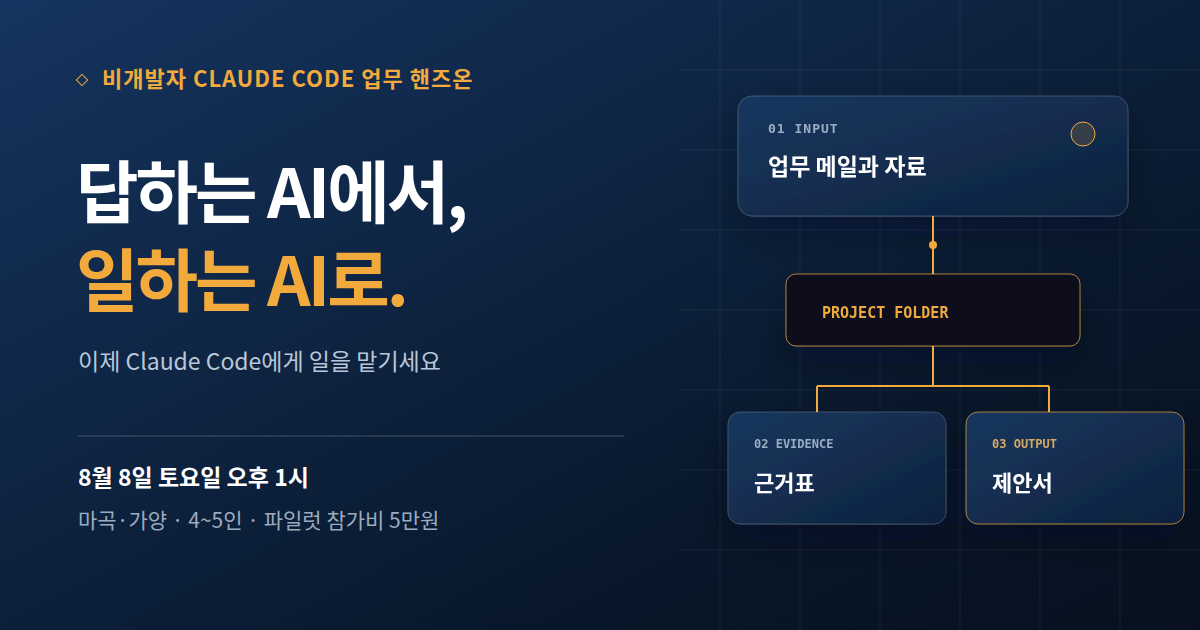
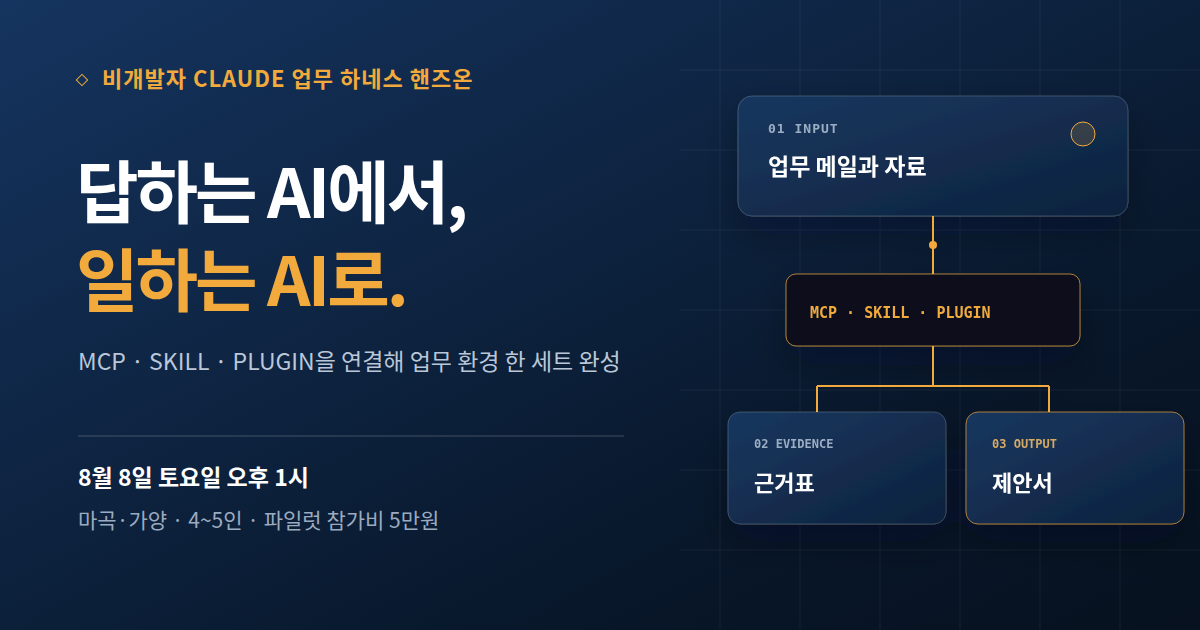
feat: present Claude work harness curriculum

Changed region(s): [[0.0617, 0.5429, 0.5242, 0.6032], [0.2467, 0.0905, 0.3392, 0.1508], [0.6783, 0.4825, 0.8325, 0.5127]]

diff --git a/index.html b/index.html
@@ -5,12 +5,12 @@
 <script>document.documentElement.className="js";</script>
 <meta name="viewport" content="width=device-width, initial-scale=1.0, viewport-fit=cover">
 <title>답하는 AI에서, 일하는 AI로 — 비개발자 Claude Code 핸즈온</title>
-<meta name="description" content="이제 Claude Code에게 일을 맡기세요. 코딩 경험 0부터 메일 분석·근거표·제안서·수정본까지 하나의 업무 흐름을 4시간 동안 직접 완주하는 비개발자 오프라인 실습입니다.">
+<meta name="description" content="이제 Claude에게 일을 맡기세요. 코딩 경험 0부터 작업 폴더·권한·MCP·Skill·Plugin을 연결해 내 업무 하네스 한 세트를 완성하는 비개발자 4시간 오프라인 실습입니다.">
 <meta name="robots" content="noindex,nofollow">
 <meta property="og:type" content="website">
 <meta property="og:locale" content="ko_KR">
 <meta property="og:title" content="답하는 AI에서, 일하는 AI로">
-<meta property="og:description" content="이제 Claude Code에게 일을 맡기세요. 코딩 경험 0부터 결과 파일까지 직접 완주하는 비개발자 4시간 오프라인 실습.">
+<meta property="og:description" content="작업 폴더·권한·MCP·Skill·Plugin을 연결해 Claude가 일할 환경 한 세트를 완성하는 비개발자 4시간 오프라인 실습.">
 <meta property="og:url" content="https://restful3.github.io/claude-hands-on/">
 <meta property="og:image" content="https://restful3.github.io/claude-hands-on/og.png">
 <meta property="og:image:width" content="1200">
@@ -155,7 +155,7 @@
 
   /* ===== PIPELINE (signature) ===== */
   .pipe-wrap{margin-top:20px;}
-  .pipe{display:grid; grid-template-columns:repeat(5,1fr); gap:0; position:relative;}
+  .pipe{display:grid; grid-template-columns:repeat(6,1fr); gap:0; position:relative;}
   .pipe::before{display:none;}
   .step{position:relative; z-index:1; text-align:center; padding:0 8px;}
   .step .node{width:68px; height:68px; margin:0 auto 14px; border-radius:20px; display:grid; place-items:center;
@@ -302,7 +302,7 @@
     .btn:hover,.cmp-card:hover{transform:none;}
   }
 </style>
-<link rel="stylesheet" href="styles-refined.css?v=20260726-4">
+<link rel="stylesheet" href="styles-refined.css?v=20260726-5">
 </head>
 <body>
 
@@ -316,9 +316,9 @@
 <header class="hero"><div class="wrap">
   <div class="hero-grid">
     <div class="hero-copy">
-      <span class="eyebrow">코딩 경험 0부터 · 비개발자 Claude Code 오프라인 실습</span>
+      <span class="eyebrow">코딩 경험 0부터 · Claude 업무 하네스 오프라인 실습</span>
       <h1><span class="line">답하는 AI에서,</span><br><em class="line">일하는 AI로.</em></h1>
-      <p class="sub">이제 Claude Code에게 일을 맡기세요. 조언을 읽고 복사하는 데서 끝나지 않고, 내 폴더의 자료를 바탕으로 <b>메일 분석 → 근거표 → 제안서 → 수정본</b>까지 이어서 처리하도록 직접 지시합니다.</p>
+      <p class="sub">이제 Claude에게 일을 맡기세요. 코딩 경험이 없어도 <b>작업 폴더·권한·MCP·Skill·Plugin</b>을 한 층씩 연결하고, 4시간 뒤 새 업무에 다시 쓰는 <b>업무 하네스 한 세트</b>를 완성합니다.</p>
       <ul class="hero-facts" aria-label="일정과 참가 조건">
         <li><b>8/8 토요일</b><span>오후 1시 시작</span></li>
         <li><b>마곡·가양</b><span>오프라인</span></li>
@@ -334,7 +334,7 @@
     </div>
 
     <div class="hero-visual">
-      <img src="workflow.svg" width="640" height="520" alt="업무 메일과 자료를 프로젝트 폴더에서 처리해 근거표와 제안서로 완성하는 흐름">
+      <img src="workflow.svg" width="640" height="520" alt="업무 입력이 Claude, MCP, Skill, Plugin으로 구성된 업무 하네스를 거쳐 근거표와 제안서로 이어지는 흐름">
     </div>
   </div>
 </div></header>
@@ -360,8 +360,8 @@
     <article class="fit-card fit-card--yes reveal">
       <h3>이런 분께 맞습니다</h3>
       <ul>
-        <li>AI 답변을 실제 보고서·제안서 같은 문서로 이어가고 싶은 비개발자</li>
-        <li>하나의 예제 업무를 직접 끝까지 해보며 일 맡기는 흐름을 익힐 분</li>
+        <li>Claude App·Code·MCP·Skill·Plugin의 차이를 직접 써보며 이해하고 싶은 비개발자</li>
+        <li>한 번의 프롬프트보다 다시 쓰는 업무 환경을 직접 만들어보고 싶은 분</li>
         <li>노트북을 지참하고 사전 환경 체크에 참여할 수 있는 분</li>
       </ul>
     </article>
@@ -379,17 +379,18 @@
 <!-- PIPELINE -->
 <section class="sec"><div class="wrap">
   <div class="sec-head reveal">
-    <span class="eyebrow">4시간 완주 흐름</span>
-    <h2>흩어진 업무 재료가<br>하나의 제안서로 이어집니다</h2>
-    <p>따로 노는 5단계를 <b>한 흐름으로</b> — 그 자리에서 손으로 끝냅니다.</p>
+    <span class="eyebrow">업무 하네스의 여섯 층</span>
+    <h2>Claude가 일하는 환경을<br>여섯 층으로 조립합니다</h2>
+    <p>앱을 켜는 데서 끝나지 않고, <b>맥락·통제·도구·절차·패키지</b>를 한 흐름으로 연결합니다.</p>
   </div>
   <div class="pipe-wrap reveal">
     <div class="pipe">
-      <div class="step"><span class="n">STEP 1</span><div class="node">01</div><h4>메일 받기</h4><p>박팀장 지시를 작업으로 분해</p></div>
-      <div class="step"><span class="n">STEP 2</span><div class="node">02</div><h4>리서치</h4><p>공개 자료로 근거 수집</p></div>
-      <div class="step"><span class="n">STEP 3</span><div class="node">03</div><h4>근거표</h4><p>확정·추정 나눠 정리</p></div>
-      <div class="step"><span class="n">STEP 4</span><div class="node">04</div><h4>제안서 초안</h4><p>회사 양식으로 완성</p></div>
-      <div class="step"><span class="n">완주</span><div class="node">05</div><h4>피드백 반영</h4><p>수정 루프까지 한 바퀴</p></div>
+      <div class="step"><span class="n">SURFACE</span><div class="node">01</div><h4>Claude App·Code</h4><p>업무에 맞는 작업 화면</p></div>
+      <div class="step"><span class="n">CONTEXT</span><div class="node">02</div><h4>CLAUDE.md</h4><p>폴더에 업무 기준 저장</p></div>
+      <div class="step"><span class="n">CONTROL</span><div class="node">03</div><h4>권한·diff</h4><p>변경 범위 직접 통제</p></div>
+      <div class="step"><span class="n">TOOLS</span><div class="node">04</div><h4>MCP</h4><p>외부 자료 읽기 연결</p></div>
+      <div class="step"><span class="n">PROCEDURE</span><div class="node">05</div><h4>Skill</h4><p>반복 절차 파일로 저장</p></div>
+      <div class="step"><span class="n">PACKAGE</span><div class="node">06</div><h4>Plugin</h4><p>기능을 한 세트로 묶기</p></div>
     </div>
   </div>
 </div></section>
@@ -402,35 +403,35 @@
   </div>
   <div class="cmp">
     <div class="cmp-card reveal">
-      <div class="tag">혼자 보는 VOD</div>
-      <div class="old"><span class="x">✕</span><span>영상 수십 시간을 혼자 보고 끝</span></div>
-      <div class="new"><span class="v">✓</span><span>우리는 <b>그 자리에서 직접 완성</b></span></div>
+      <div class="tag">기능을 보는 VOD</div>
+      <div class="old"><span class="x">✕</span><span>화면과 메뉴를 보고 이해한 느낌으로 끝</span></div>
+      <div class="new"><span class="v">✓</span><span>직접 설정하고 <b>실제 파일 변경까지 확인</b></span></div>
     </div>
     <div class="cmp-card reveal">
-      <div class="tag">대화창 중심의 일회성 사용</div>
-      <div class="old"><span class="x">✕</span><span>답을 복사해 문서마다 따로 옮김</span></div>
-      <div class="new"><span class="v">✓</span><span>프로젝트 폴더에서 <b>여러 파일을 한 흐름으로 완성</b></span></div>
+      <div class="tag">일회성 프롬프트</div>
+      <div class="old"><span class="x">✕</span><span>같은 설명과 체크리스트를 매번 다시 입력</span></div>
+      <div class="new"><span class="v">✓</span><span>잘된 절차를 <b>내 Skill로 저장해 다시 호출</b></span></div>
     </div>
     <div class="cmp-card reveal">
-      <div class="tag">며칠짜리 코스</div>
-      <div class="old"><span class="x">✕</span><span>여러 날 나눠 이론만</span></div>
-      <div class="new"><span class="v">✓</span><span><b>하루 4시간</b>, 예제 업무 1건 완주</span></div>
+      <div class="tag">나열식 기능 투어</div>
+      <div class="old"><span class="x">✕</span><span>MCP·Skill·Plugin을 따로따로 맛보기</span></div>
+      <div class="new"><span class="v">✓</span><span><b>하나의 업무 하네스</b>로 묶고 새 업무에서 재실행</span></div>
     </div>
   </div>
-  <p class="cmp-foot reveal">“또 하나의 챗GPT 강의”가 아니라 — <b>비개발자를 위한, 완전 오프라인 소수정예 Claude Code 핸즈온.</b></p>
+  <p class="cmp-foot reveal">기능 설명 70%, 업무 결과 30% — <b>배운 기능이 실제 일에 연결되는지 그 자리에서 확인합니다.</b></p>
 </div></section>
 
 <!-- CURRICULUM -->
 <section class="sec tl-sec" id="curriculum"><div class="wrap">
   <div class="sec-head reveal">
     <span class="eyebrow">45분 실습 + 5분 코칭 × 4 · 8/8(토) 오후 1시</span>
-    <h2>4시간, 이렇게 흘러갑니다</h2>
+    <h2>4시간, Claude 업무 하네스를 직접 조립합니다</h2>
   </div>
   <div class="tl">
-    <div class="tl-item reveal"><div class="tl-dot">S1</div><div class="tl-time mono">0:00 – 0:50</div><h4>첫 파일을 읽고 고치기</h4><p>전체 실습 폴더를 열고, 메일을 읽힌 뒤 첫 결과 파일을 diff에서 확인합니다.</p></div>
-    <div class="tl-item reveal"><div class="tl-dot">S2</div><div class="tl-time mono">1:00 – 1:50</div><h4>업무 요청 구조화</h4><p>메일을 목적·산출물·제약·숨은 기대·확인 질문으로 나눠 파일로 저장합니다.</p></div>
-    <div class="tl-item win reveal"><div class="tl-dot">S3</div><div class="tl-time mono">2:00 – 2:50</div><h4>근거표와 원문 대조</h4><p>주장·출처 URL·원문 구절·판정 3행을 만들고 링크를 직접 확인합니다.</p></div>
-    <div class="tl-item reveal"><div class="tl-dot">S4</div><div class="tl-time mono">3:00 – 3:50</div><h4>제안서·피드백·독립 수행 <span class="star">전이 확인</span></h4><p>초안과 수정본을 만든 뒤, 처음 보는 새 업무 메일을 도움 없이 구조화합니다.</p></div>
+    <div class="tl-item reveal"><div class="tl-dot">S1</div><div class="tl-time mono">0:00 – 0:50</div><h4>Claude App·Code 작업대 설정</h4><p>Desktop/Cowork와 Code의 역할을 나누고, 폴더·CLAUDE.md·권한·Plan·diff를 설정합니다.</p></div>
+    <div class="tl-item reveal"><div class="tl-dot">S2</div><div class="tl-time mono">1:00 – 1:50</div><h4>MCP·Connector로 외부 도구 연결</h4><p>실습용 Gmail/Drive 중 하나를 읽기 전용으로 호출하고, 도구·권한·결과를 연결 기록에 남깁니다.</p></div>
+    <div class="tl-item win reveal"><div class="tl-dot">S3</div><div class="tl-time mono">2:00 – 2:50</div><h4>반복 업무를 Skill로 저장</h4><p>메일→근거표→제안서 절차를 SKILL.md로 만들고 직접 호출해 결과와 diff를 검수합니다.</p></div>
+    <div class="tl-item reveal"><div class="tl-dot">S4</div><div class="tl-time mono">3:00 – 3:50</div><h4>Plugin으로 업무 하네스 완성 <span class="star">전이 확인</span></h4><p>manifest·Skill·Agent·Hook·MCP 구조를 읽고 로컬 Plugin을 불러와 새 업무에서 다시 실행합니다.</p></div>
   </div>
 </div></section>
 
@@ -441,12 +442,12 @@
     <h2>가지고 돌아가는 것</h2>
   </div>
   <div class="res-grid">
-    <div class="res reveal"><div class="ck">1</div><div><h4>대화로 일 시키는 법</h4><p>내 폴더를 열고 Claude Code에게 업무를 위임하는 감각.</p></div></div>
-    <div class="res reveal"><div class="ck">2</div><div><h4>완주 경험 한 바퀴</h4><p>메일 → 리서치 → 근거표 → 제안서 초안까지 직접.</p></div></div>
-    <div class="res reveal"><div class="ck">3</div><div><h4>수정 루프</h4><p>팀장 피드백을 반영해 고치는 실전 흐름.</p></div></div>
-    <div class="res reveal"><div class="ck">4</div><div><h4>독립 수행 + 전환카드</h4><p>새 업무에서 다시 해보고, 다음 주 적용할 업무와 날짜를 정함.</p></div></div>
+    <div class="res reveal"><div class="ck">1</div><div><h4>업무 기준·권한 설정</h4><p>CLAUDE.md와 로컬 권한, Plan·diff 검수 기준.</p></div></div>
+    <div class="res reveal"><div class="ck">2</div><div><h4>MCP 연결 기록</h4><p>어떤 도구로 무엇을 읽었고 어디까지 허용했는지 남긴 기록.</p></div></div>
+    <div class="res reveal"><div class="ck">3</div><div><h4>나만의 Skill</h4><p>반복 업무의 입력·출력·절차·금지선을 담은 SKILL.md.</p></div></div>
+    <div class="res reveal"><div class="ck">4</div><div><h4>Plugin + 새 업무 재실행</h4><p>하네스 템플릿을 불러와 처음 보는 입력에 다시 적용한 결과.</p></div></div>
   </div>
-  <p class="res-callout reveal"><b>솔직하게:</b> 개인 업무 전체를 대신 자동화해 주는 강의가 아닙니다. <b>하나의 예제 업무를 완주</b>하며, 내 업무로 옮기는 방법을 손으로 익히는 자리입니다.</p>
+  <p class="res-callout reveal"><b>솔직하게:</b> 여러 MCP·Hook·Agent를 한 번에 마스터하거나 개인 업무 전체를 자동화하는 강의는 아닙니다. <b>MCP 1개·Skill 1개·Plugin 템플릿 1개</b>를 실제로 연결해, 다시 쓸 수 있는 하네스 한 세트를 완성합니다.</p>
 </div></section>
 
 <!-- PRICE -->
@@ -458,7 +459,7 @@
     <div class="price-stats">
       <div class="pstat"><div class="big">4~5</div><div class="lbl">모집 인원</div></div>
       <div class="pstat"><div class="big">4</div><div class="lbl">시간 핸즈온</div></div>
-      <div class="pstat"><div class="big">1</div><div class="lbl">예제 완주</div></div>
+      <div class="pstat"><div class="big">1</div><div class="lbl">업무 하네스</div></div>
     </div>
     <a class="btn btn--primary" href="https://docs.google.com/forms/d/e/1FAIpQLSfkgjpca7ju0qVWHbRzup8ZFzAiJzAquXuB-yrjJrC5lc8QDA/viewform" target="_blank" rel="noopener">리허설 참가 신청하기</a>
     <p class="price-urgency">8월 8일 토요일 오후 1시 — 마곡·가양 인근에서 진행합니다.</p>
@@ -473,10 +474,10 @@
     <p>첫 리허설이라 만들어진 후기는 없습니다. 대신 실제 수업 설계와 진행 원칙을 공개합니다.</p>
   </div>
   <div class="quality-grid">
-    <article class="quality-card reveal"><div class="ico">01 · FILES</div><h3>매 세션 파일이 남습니다</h3><p>화면을 보고 끝내지 않고 분해표·근거표·제안서·수정본을 저장합니다.</p></article>
-    <article class="quality-card reveal"><div class="ico">02 · TRANSFER</div><h3>새 업무에서 다시 해봅니다</h3><p>마지막에는 처음 보는 업무를 혼자 시작해 같은 출발 동작을 확인합니다.</p></article>
-    <article class="quality-card reveal"><div class="ico">03 · PREFLIGHT</div><h3>수업 전 환경을 확인합니다</h3><p>2~3일 전 가이드와 환경 체크를 보내고, 막힌 설치는 무료로 돕습니다.</p></article>
-    <article class="quality-card reveal"><div class="ico">04 · PLAN B</div><h3>막혀도 완주하는 플랜B</h3><p>도구 연결이 안 되면 샘플 자료와 중간 산출물로 다음 단계에 합류합니다.</p></article>
+    <article class="quality-card reveal"><div class="ico">01 · CONTROL</div><h3>설정과 변경을 직접 봅니다</h3><p>CLAUDE.md·권한·Plan·diff를 구분하고, 바뀐 파일을 눈으로 확인합니다.</p></article>
+    <article class="quality-card reveal"><div class="ico">02 · BUILD</div><h3>MCP·Skill·Plugin이 남습니다</h3><p>메뉴를 보는 데서 끝내지 않고 연결 기록·Skill·Plugin 템플릿을 저장합니다.</p></article>
+    <article class="quality-card reveal"><div class="ico">03 · PREFLIGHT</div><h3>수업 전 연결까지 확인합니다</h3><p>설치·로그인·읽기 전용 Connector·Plugin 로드 여부를 사전에 점검합니다.</p></article>
+    <article class="quality-card reveal"><div class="ico">04 · PLAN B</div><h3>연결이 막혀도 구조는 배웁니다</h3><p>제공 원문·검증된 Skill·Plugin 템플릿으로 즉시 전환해 다음 층에 합류합니다.</p></article>
   </div>
   <div class="trust-subhead reveal">
     <span class="eyebrow">INSTRUCTOR</span>
@@ -498,8 +499,8 @@
       </ul>
     </div>
     <div class="trust-card reveal">
-      <div class="q">도구 기능을 나열하는 강의보다, 참가자가 실제 파일을 읽고 만들고 고치는 과정을 끝까지 따라갑니다. 4~5인 소수정예로 막히는 지점을 바로 코칭하고, 수업 전 설치 가이드와 환경 점검을 제공합니다. 이번 파일럿에서 발견한 어려움은 다음 교안에 반영하며, 기록과 결과물에서는 개인정보를 다루지 않습니다.</div>
-      <div class="who">진행 원칙 · 기능 설명보다 업무 완주</div>
+      <div class="q">Claude App·Code, MCP, Skill, Plugin을 각각 설명한 뒤 하나의 업무 하네스로 연결합니다. 4~5인 소수정예로 설정과 연결에서 막히는 지점을 바로 코칭하고, 각 기능은 실제 업무 파일과 결과로 검증합니다. 이번 파일럿의 기록과 결과물에서는 개인정보를 다루지 않습니다.</div>
+      <div class="who">진행 원칙 · 기능 70%, 업무 결과 30%</div>
     </div>
   </div>
 </div></section>
@@ -508,27 +509,27 @@
 <section class="sec faq-sec"><div class="wrap narrow">
   <div class="sec-head reveal"><span class="eyebrow">자주 묻는 것</span><h2>궁금한 점</h2></div>
   <div class="faq">
-    <details class="reveal" open><summary>개발을 전혀 몰라도 되나요?<span class="pm">+</span></summary><div class="a">네. 코딩을 배우는 자리가 아니라, <b>대화로 업무를 시키는</b> 법을 익히는 핸즈온입니다. 사무직·행정직 비개발자가 대상입니다.</div></details>
-    <details class="reveal"><summary>챗GPT랑 뭐가 다른가요?<span class="pm">+</span></summary><div class="a">둘 다 유용하지만 이 수업의 작업 방식이 다릅니다. 대화창에서 한 번의 답을 얻는 연습이 아니라, Claude Code로 <b>하나의 프로젝트 폴더를 열고 여러 파일을 읽고 만들고 수정하는 흐름</b>을 직접 완주합니다. 그래서 챗GPT 기초 사용법은 반복하지 않습니다.</div></details>
-    <details class="reveal"><summary>무엇을 준비하나요?<span class="pm">+</span></summary><div class="a">Windows/Mac <b>노트북 + 충전기</b>, Claude 계정. 신청 확정 후 <b>사전 설치 가이드와 실습 키트</b>를 보내드리고, 세미나 2~3일 전 간단한 환경 체크(5분)가 있습니다.</div></details>
+    <details class="reveal" open><summary>개발을 전혀 몰라도 되나요?<span class="pm">+</span></summary><div class="a">네. 프로그래밍 문법은 다루지 않습니다. 다만 폴더·설정 파일을 열고 짧은 명령을 실행하므로, 보내드리는 <b>사전 설치·연결 점검</b>은 꼭 완료해야 합니다.</div></details>
+    <details class="reveal"><summary>일반 AI 강의와 뭐가 다른가요?<span class="pm">+</span></summary><div class="a">대화창에서 한 번의 답을 얻는 연습이 아닙니다. 프로젝트 폴더에 업무 기준을 저장하고, <b>MCP로 도구를 연결하고, 절차를 Skill로 만들고, Plugin으로 묶어</b> 새 업무에서 다시 실행합니다.</div></details>
+    <details class="reveal"><summary>무엇을 준비하나요?<span class="pm">+</span></summary><div class="a">Windows/Mac <b>노트북 + 충전기</b>, Claude 유료 계정이 필요합니다. 신청 확정 후 Desktop·VS Code·Claude Code CLI·실습용 읽기 Connector·Plugin 템플릿을 확인하는 사전 가이드를 보내드립니다.</div></details>
     <details class="reveal"><summary>Claude 이용료가 따로 드나요?<span class="pm">+</span></summary><div class="a">네, 실습에 쓰는 Code 탭은 <b>Claude 유료 플랜(Pro 이상, 월 $20 수준)이 필요</b>합니다 — 무료 계정에는 열리지 않습니다. 이미 Pro를 쓰고 계시면 추가 비용이 없고, 처음이라면 사전 안내에서 가입 절차를 함께 도와드립니다. 세미나 후에도 계속 쓰실 도구라 이 비용은 수강료가 아니라 <b>도구 구독료</b>입니다.</div></details>
     <details class="reveal"><summary>지금 신청할 수 있나요?<span class="pm">+</span></summary><div class="a">네. 정식 오픈 전 <b>리허설 참가자 4~5명</b>을 모집 중입니다. 신청 폼을 남겨주시면 1~2일 내 연락드리며, 일정은 <b>8월 8일 토요일 오후 1시</b>로 확정되어 있습니다.</div></details>
     <details class="reveal"><summary>참가비는 어떻게 내나요?<span class="pm">+</span></summary><div class="a">신청 폼 제출 후 <b>확정 연락을 드릴 때 계좌 이체로 안내</b>드립니다. 입금 확인 순으로 자리가 확정되며, 페이지에는 결제 정보를 두지 않습니다.</div></details>
-    <details class="reveal"><summary>배운 걸 제 업무에 바로 쓸 수 있나요?<span class="pm">+</span></summary><div class="a">솔직하게 — 4시간 만에 내 업무 전체가 자동화되지는 않습니다. 이 세미나에서 가져가는 것은 <b>예제 업무 1건의 완주 경험</b>과, 마지막 세션에서 직접 설계하는 <b>내 업무 1개의 자동화 계획(루프 카드)</b>입니다. 월요일에 그 카드부터 시작하시면 됩니다.</div></details>
-    <details class="reveal"><summary>설치가 막히면요?<span class="pm">+</span></summary><div class="a">걱정 마세요. 미리 <b>무료로 도와드리고</b>, 정 안 되면 당일 동일 실습을 샘플 데이터로 진행합니다.</div></details>
+    <details class="reveal"><summary>배운 걸 제 업무에 바로 쓸 수 있나요?<span class="pm">+</span></summary><div class="a">4시간 만에 업무 전체를 자동화하지는 않습니다. 대신 <b>업무 기준·MCP 연결 기록·Skill·Plugin 템플릿</b> 한 세트를 가져가고, 마지막에 새 업무로 재실행해 어디까지 재사용되는지 확인합니다.</div></details>
+    <details class="reveal"><summary>설치나 MCP 연결이 막히면요?<span class="pm">+</span></summary><div class="a">사전에 무료로 점검합니다. 당일에도 해결이 길어지면 제공 원문·검증된 Skill·Plugin 템플릿으로 전환해 구조와 호출 실습을 계속합니다.</div></details>
     <details class="reveal"><summary>환불 규정은요?<span class="pm">+</span></summary><div class="a">시작 <b>3일 전까지 전액 환불</b>, 2일 전~전날은 50% 환불, 당일·노쇼는 환불이 어렵습니다. 최소 인원 미달 등 <b>주최 측 사유로 취소되면 전액 환불</b>해 드립니다.</div></details>
   </div>
 </div></section>
 
 <!-- FINAL CTA -->
 <section class="final"><div class="wrap">
-  <h2>주말 오후 <em>4시간</em>,<br>AI에게 첫 업무를 맡겨보세요</h2>
-  <p>메일에서 근거표·제안서·수정본까지 직접 완주할 파일럿 참가자 4~5분을 찾습니다.</p>
+  <h2>주말 오후 <em>4시간</em>,<br>AI에게 일을 맡길 환경을 만드세요</h2>
+  <p>작업대·MCP·Skill·Plugin을 연결해, 새 업무에도 다시 쓰는 하네스 한 세트를 완성할 파일럿 참가자 4~5분을 찾습니다.</p>
   <a class="btn btn--primary" href="https://docs.google.com/forms/d/e/1FAIpQLSfkgjpca7ju0qVWHbRzup8ZFzAiJzAquXuB-yrjJrC5lc8QDA/viewform" target="_blank" rel="noopener">리허설 참가 신청하기 (5만원)</a>
   <p class="mini">마곡·가양 인근 스터디룸 (확정 후 개별 안내) · 4~5인 · 8월 8일(토) 오후 1시</p>
 </div></section>
 
-<footer>claude-code-workshop · 비개발자를 위한 Claude Code 업무 자동화 핸즈온</footer>
+<footer>claude-code-workshop · 비개발자를 위한 Claude 업무 하네스 핸즈온</footer>
 
 <script>
   // 스크롤 리빌

diff --git a/styles-refined.css b/styles-refined.css
@@ -417,6 +417,10 @@ body {
   margin-top: 28px;
 }
 
+.pipe {
+  grid-template-columns: repeat(6, minmax(0, 1fr));
+}
+
 .pipe::before {
   display: none;
 }
@@ -447,6 +451,10 @@ body {
 
 .step:nth-child(4) {
   --connector: #c59262;
+}
+
+.step:nth-child(5) {
+  --connector: #d7a14d;
 }
 
 .step .node {
@@ -916,6 +924,10 @@ footer {
   .hero-visual {
     width: min(100%, 600px);
     margin: 0 auto;
+  }
+
+  .pipe {
+    grid-template-columns: 1fr;
   }
 
   .pain-grid,
